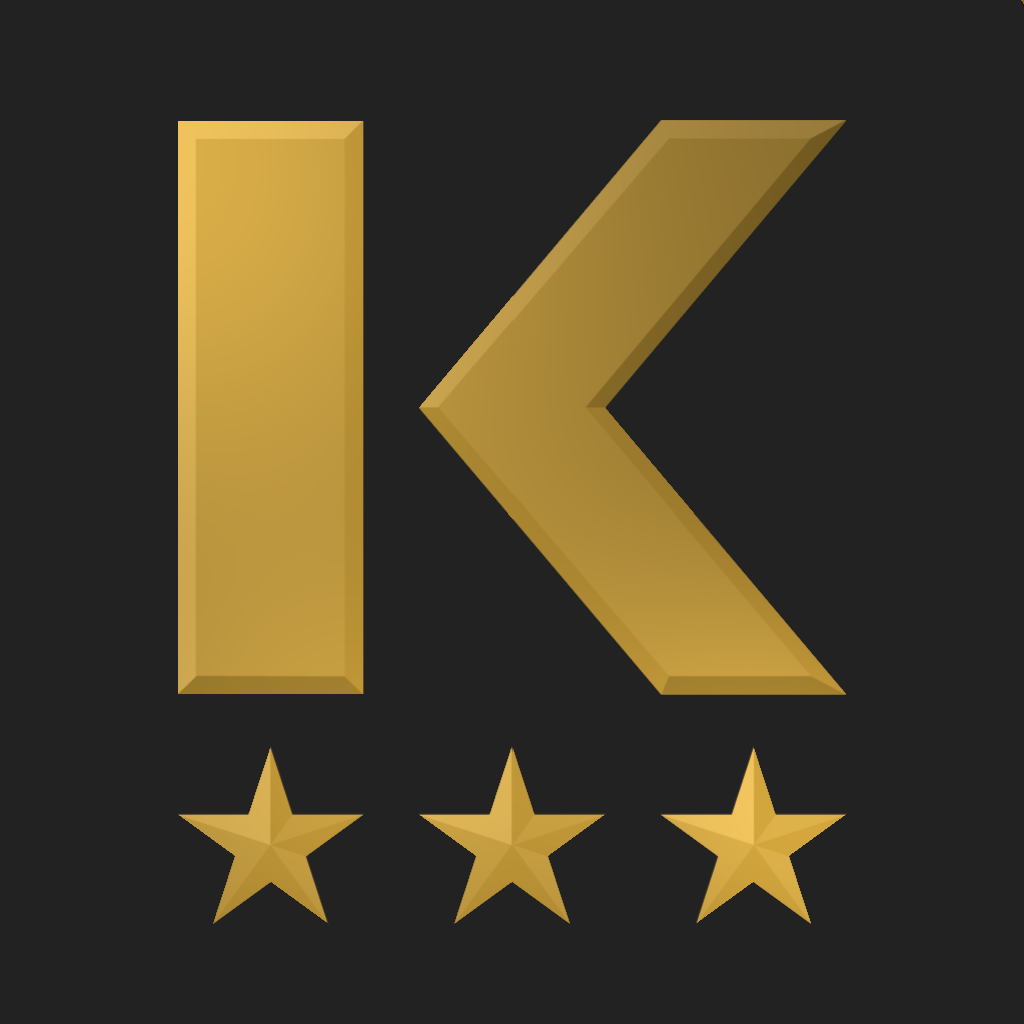
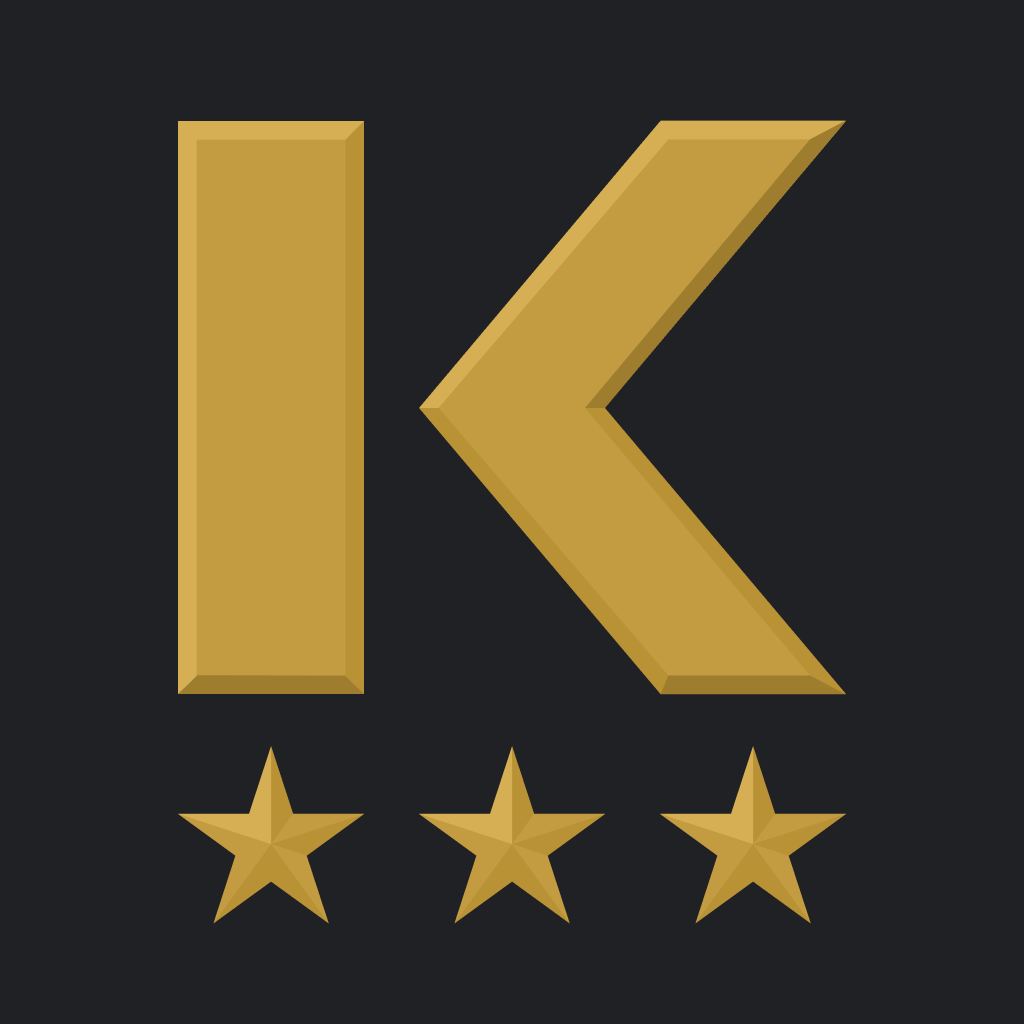
Update assets and fix mixed content

Changed region(s): [[0.5, 0.0938, 0.8125, 0.5312], [0.6562, 0.7188, 0.8125, 0.8438], [0.1562, 0.125, 0.1875, 0.1875]]

diff --git a/index.html b/index.html
@@ -7,10 +7,10 @@
     <meta name="author" content="Kaptan">
     <meta name="description" content="Kaptan">
     <meta name="keywords" content="Kaptan" />
-    <link rel="icon" href="assets/favicon.png">
-    <link rel="stylesheet" href="assets/style.css">
+    <link rel="icon" href="https://www.kaptan.app/assets/favicon.png">
+    <link rel="stylesheet" href="https://www.kaptan.app/assets/style.css">
 
   <body>
-    <img src="assets/kaptan.png" class="img-skill" alt="Kaptan" />
+    <img src="https://www.kaptan.app/assets/kaptan.png" class="img-skill" alt="Kaptan" />
   </body>
 </html>

diff --git a/assets/style.css b/assets/style.css
@@ -1,7 +1,7 @@
 body {
   align-items: center;
-  background: #222222;
-  color: #222;
+  background: #202124;
+  color: #202124;
   display: flex;
   font-family: "Work Sans", Arial, sans-serif;
   font-size: 16px;
